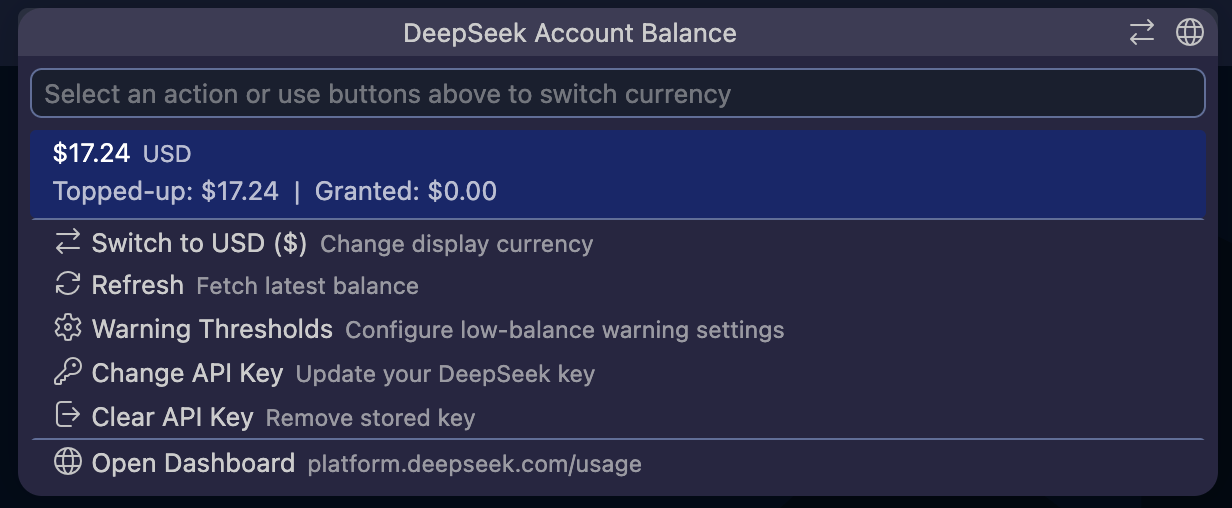
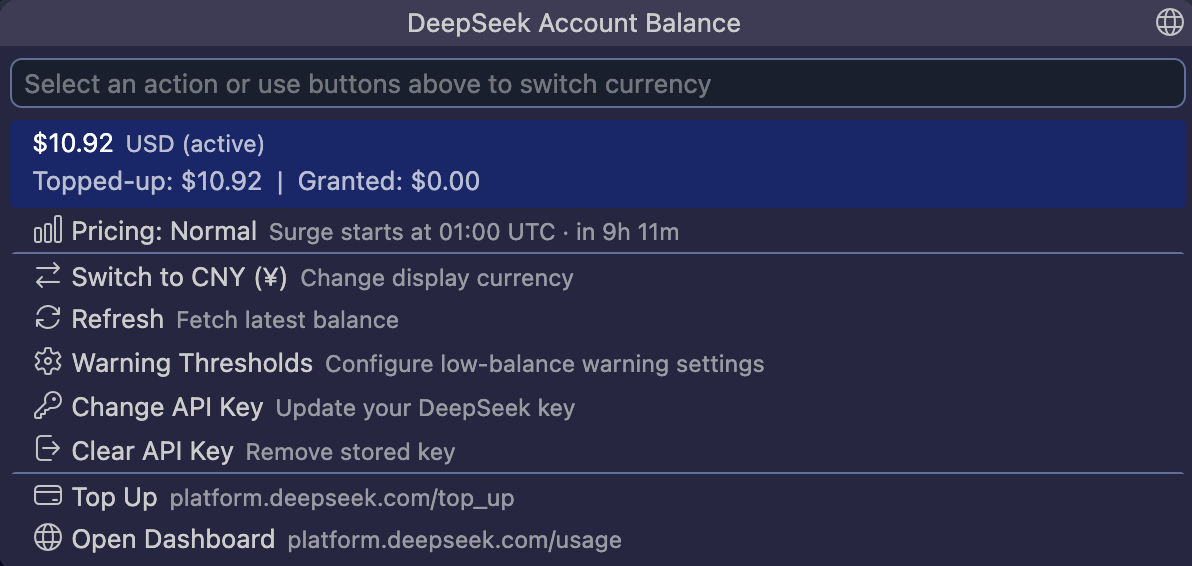
docs: update screenshots and marketplace description for surge pricing

diff --git a/README.md b/README.md
@@ -1,8 +1,9 @@
 # DeepSeek Credit Status — API Balance Monitor
 
 Track your DeepSeek API account balance and remaining credits right from the
-VS Code status bar. Never get caught with an empty balance during a coding
-session again.
+VS Code status bar — now with DeepSeek surge-pricing monitoring and a live
+countdown to the next price change. Never get caught with an empty balance or
+a surprise surge price during a coding session again.
 
 Ideal for developers using [DeepSeek](https://platform.deepseek.com) with
 [OpenCode](https://opencode.ai) or any other AI coding tool inside VS Code.
